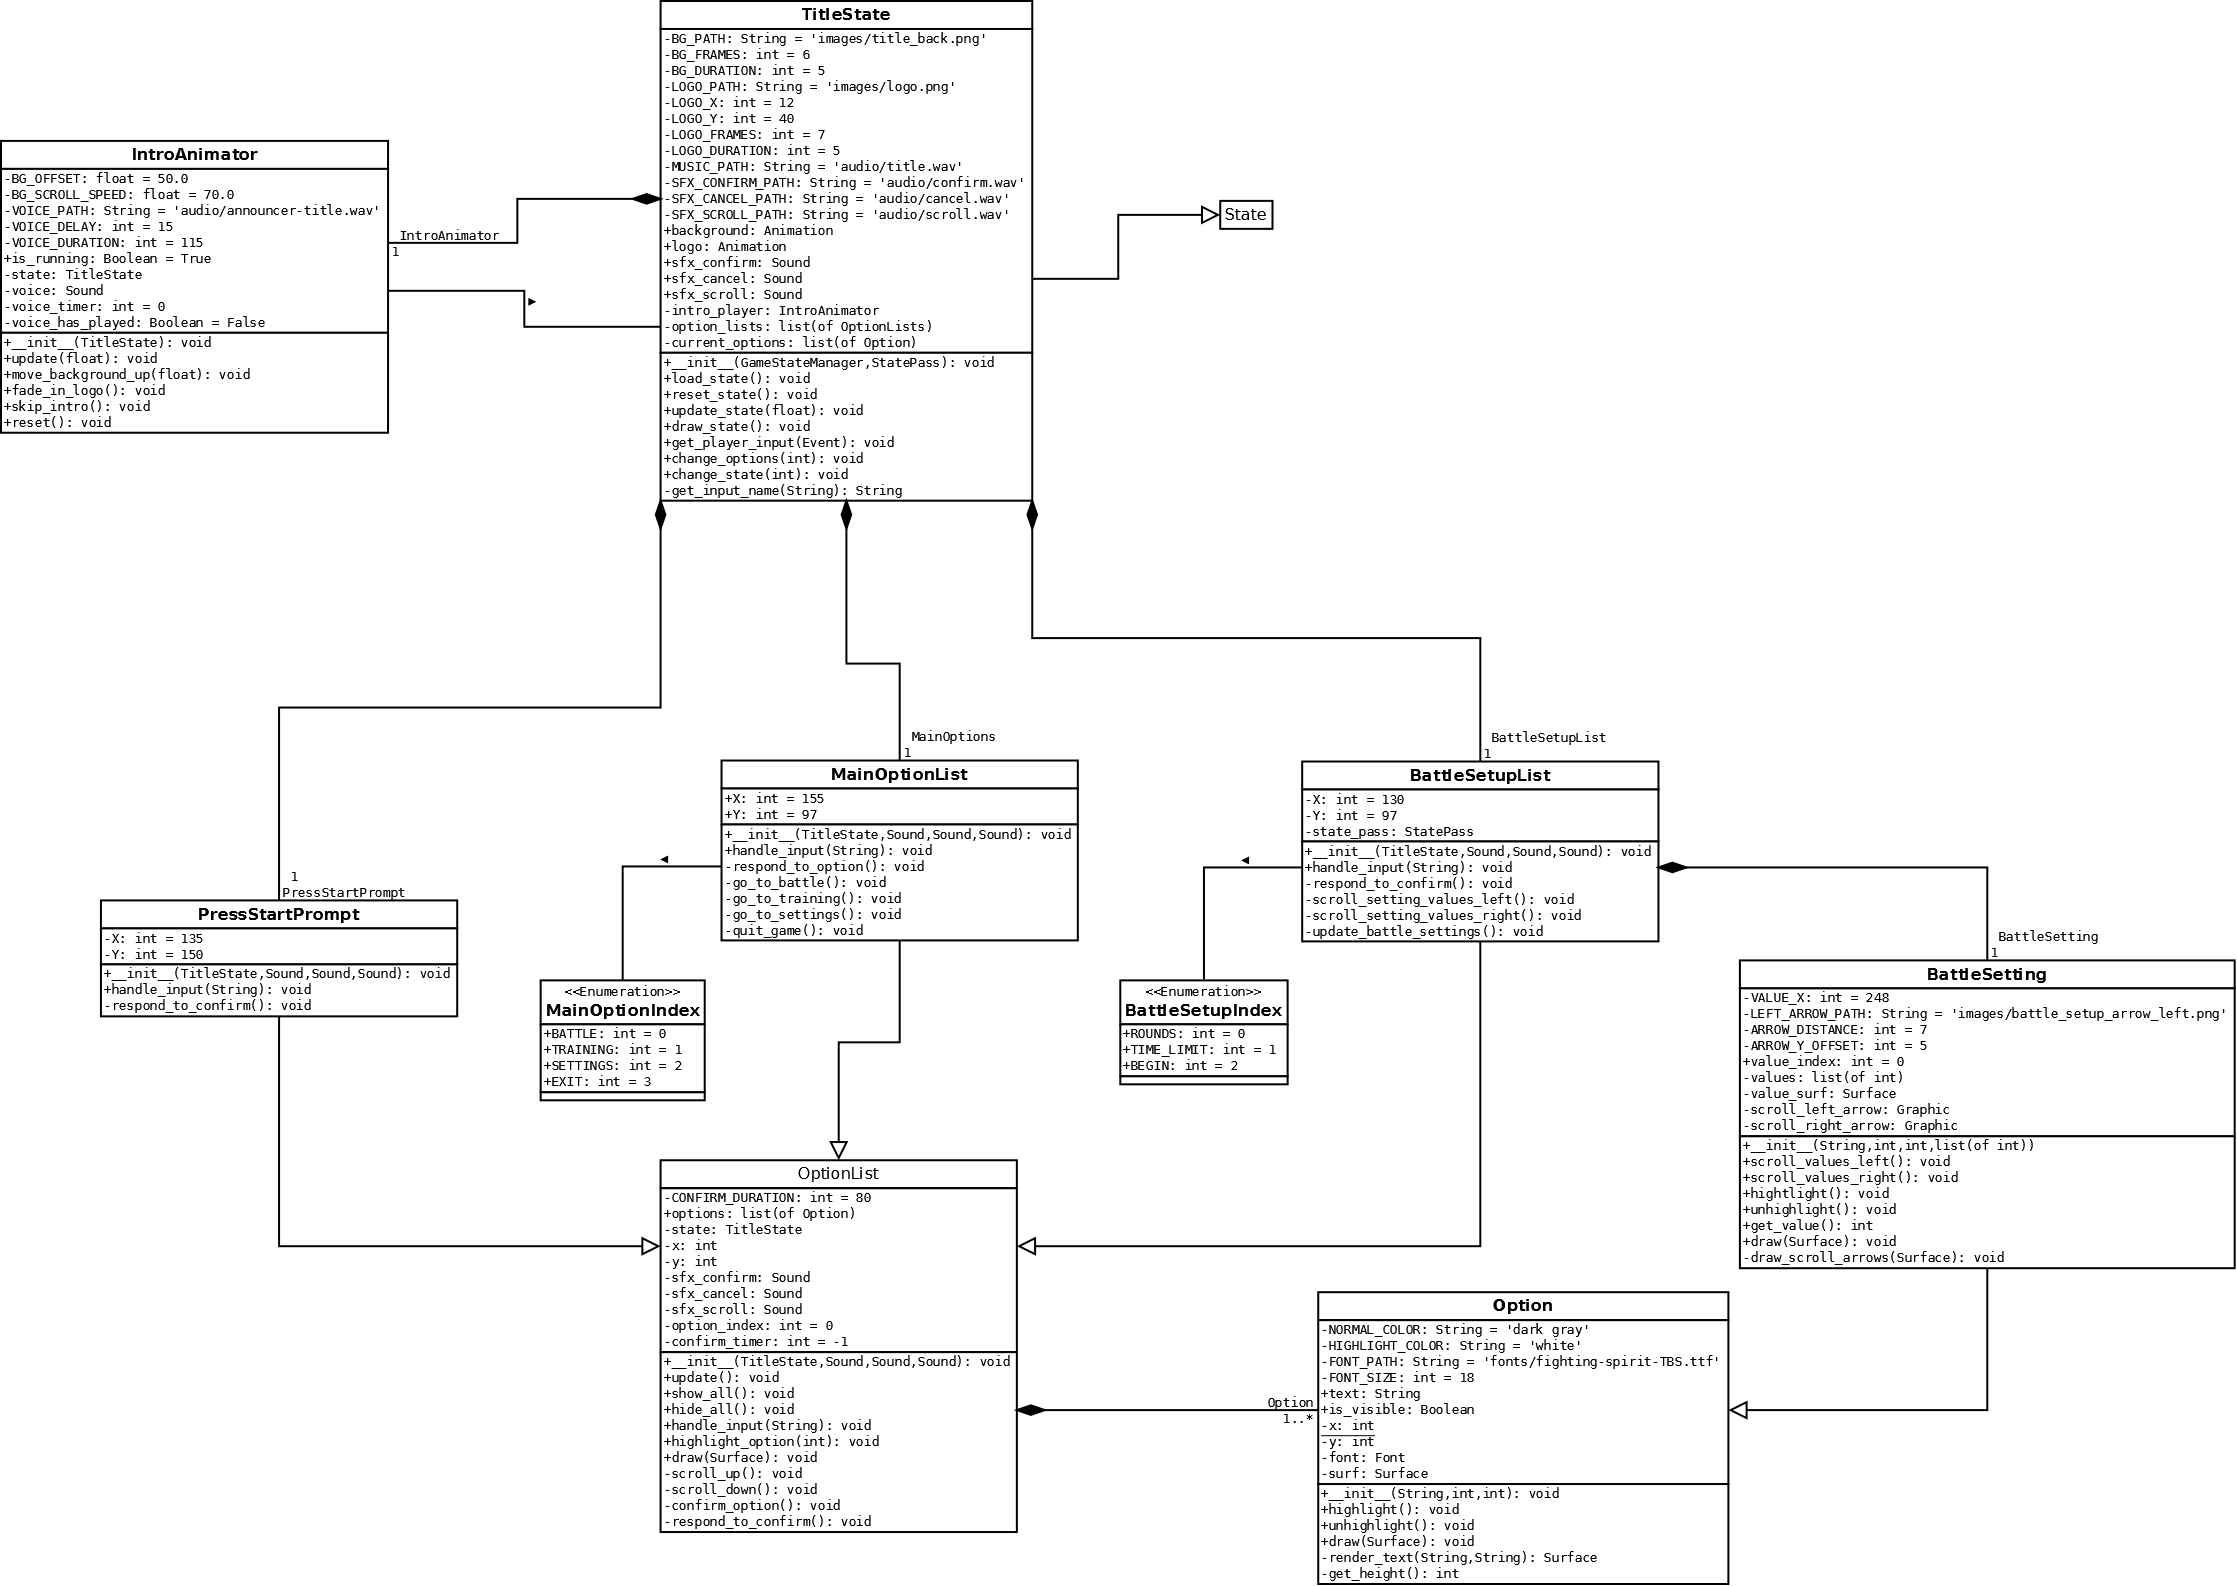
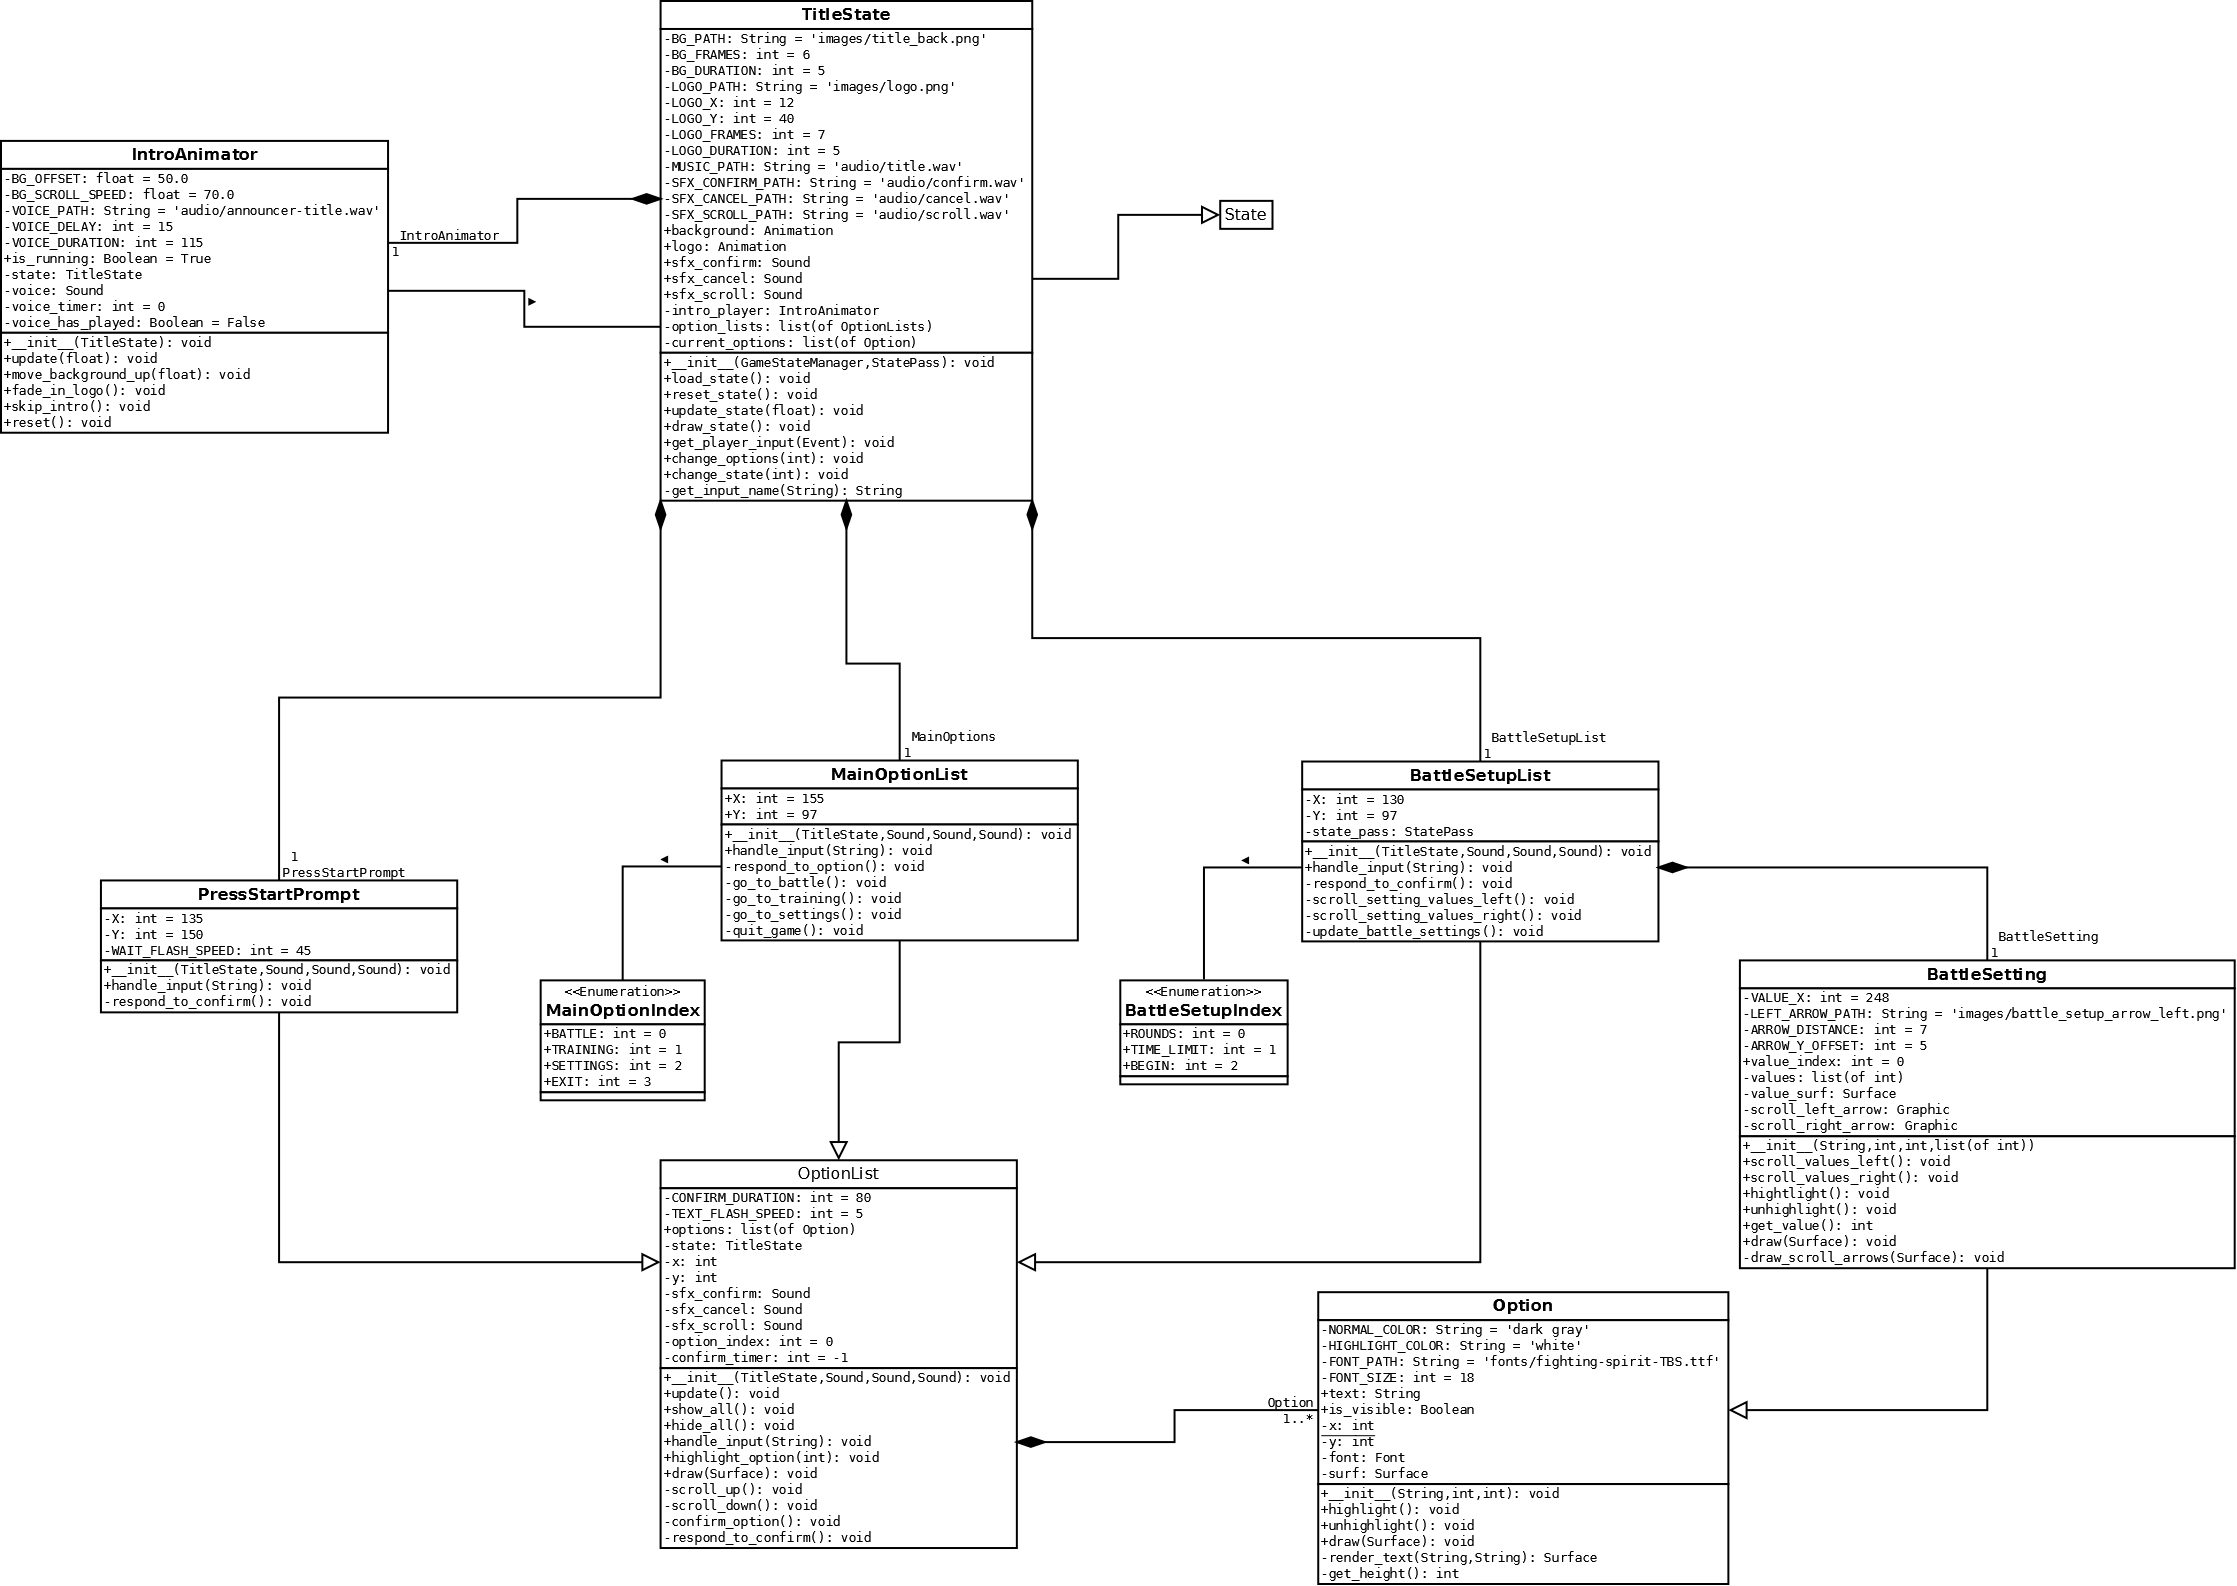
OptionList: Add TEXT_FLASH_SPEED constant
Constants are good. Unnamed constant values are bad, bad, bad.

diff --git a/lib/game_states/title_state_new.py b/lib/game_states/title_state_new.py
@@ -21,9 +21,13 @@ class OptionList(object):
     ways of responding to a confirmed Option.
 
     Class Constants:
-        CONFIRM_DURATION: The time, in update frames, to flash a
-            confirmed Option's text before performing the appropriate
-            operation.
+        CONFIRM_DURATION: An integer for the time, in update frames, to
+            flash a confirmed Option's text before performing the
+            appropriate operation.
+        TEXT_FLASH_SPEED: An integer for the speed, in update frames, at
+            which Option text will flash upon being selected and
+            confirmed. For example, a value of 5 means that the text
+            will change its visibility every 5 update cycles.
 
     Attributes:
         state: The TitleState instance that this OptionList belongs to.
@@ -45,6 +49,7 @@ class OptionList(object):
             stop the timer.
     """
     CONFIRM_DURATION = 80
+    TEXT_FLASH_SPEED = 5
 
     def __init__(self, state, sfx_confirm, sfx_cancel, sfx_scroll):
         """Declare and initialize instance variables.
